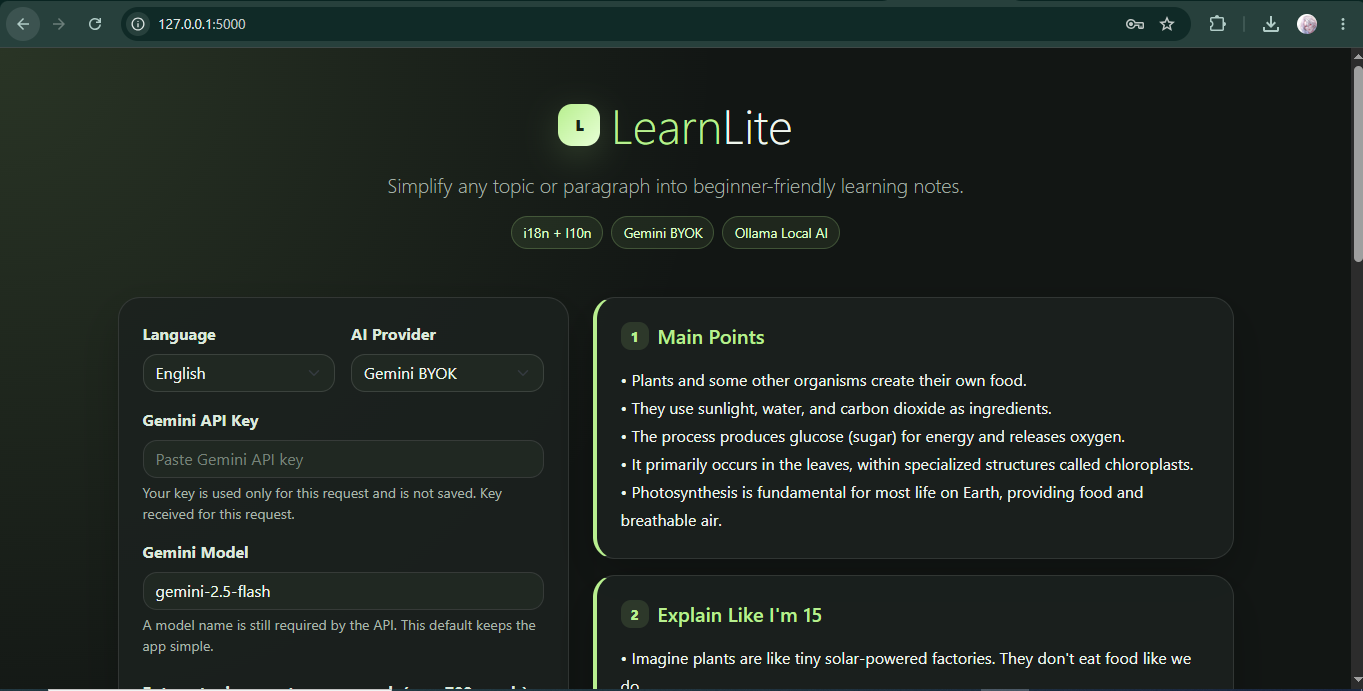
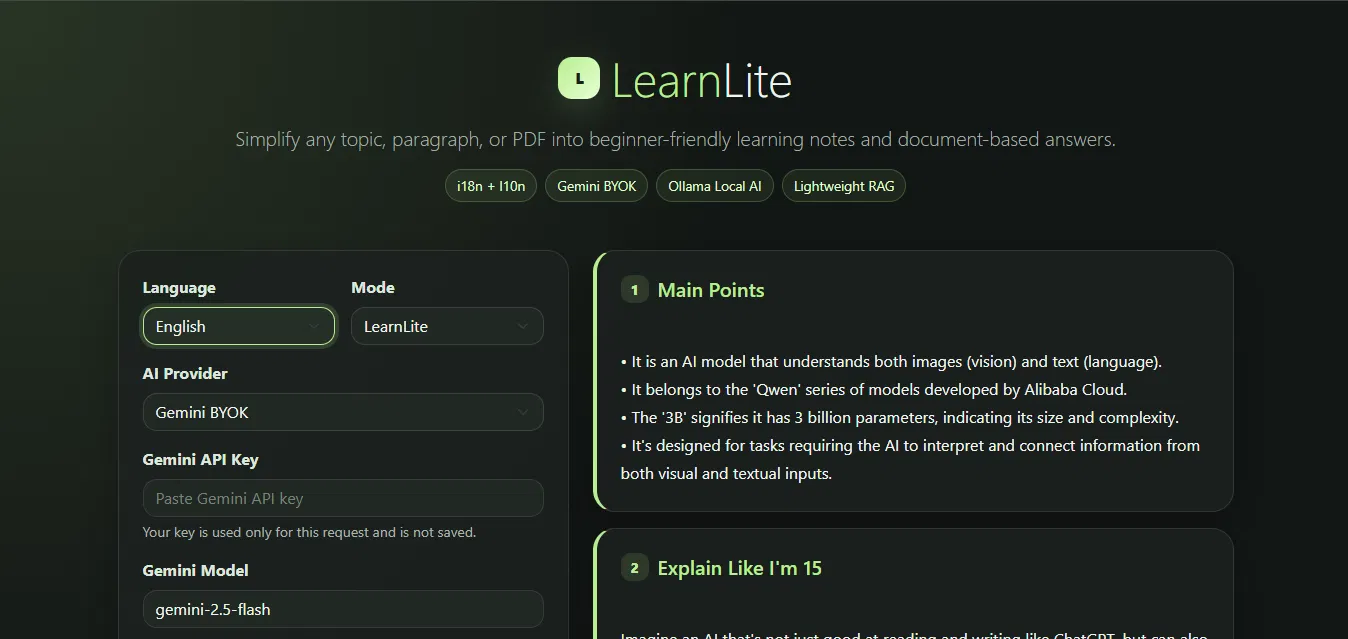
Update : Added the new features and related pics in the readme

Changed region(s): [[0.0, 0.0, 1.0, 1.0], [0.4362, 0.3865, 0.9036, 0.8028], [0.4674, 0.8028, 0.8724, 0.8326]]

diff --git a/README.md b/README.md
@@ -1,30 +1,66 @@
 # LearnLite
 
 <p align="center">
-  <img src="assets/gp1.PNG" alt="LearnLite Screenshot" width="900">
-  <img src="assets/LearnLite_Main_Points.png" alt="LearnLite Main Points" width="900">
-</p><p align="center">
-  <b>AI-Powered Learning Assistant</b><br>
-  Transform complex topics and paragraphs into beginner-friendly learning notes.
-</p><p align="center">
-  <a href="https://learn-lite-plum.vercel.app">Live Demo</a>
-</p>---
+  <img src="assets/LearnLite_Main_Points.png" alt="LearnLite Banner" width="900">
+</p>
 
-Overview
+<p align="center">
+  <b>AI-Powered Multilingual Learning Assistant</b><br>
+  Simplify any topic, paragraph, or PDF into beginner-friendly learning notes and document-based answers.
+</p>
 
-LearnLite is an AI-powered educational assistant designed to simplify learning.
-
-Users can enter a topic or paste a paragraph, and LearnLite generates structured learning notes that make complex concepts easier to understand.
-
-The application supports multiple Indian languages, cloud-based AI through Gemini BYOK (Bring Your Own Key), and local AI inference using Ollama.
+<p align="center">
+  <a href="https://learn-lite-plum.vercel.app">🌐 Live Demo</a>
+</p>
 
 ---
 
-Features
+## Screenshots
 
-Learning Assistance
+### LearnLite Mode — English
 
-LearnLite automatically generates:
+<p align="center">
+  <img src="assets/gp1.PNG" alt="LearnLite Mode in English" width="900">
+</p>
+
+### LearnLite Mode — Telugu (l10n)
+
+<p align="center">
+  <img src="assets/gp4.png" alt="LearnLite Mode in Telugu" width="900">
+</p>
+
+### LearnLite-RAG Mode — Hindi (PDF Q&A)
+
+<p align="center">
+  <img src="assets/gp2.png" alt="LearnLite RAG Mode in Hindi" width="900">
+</p>
+
+### LearnLite-RAG Mode — English (PDF Q&A)
+
+<p align="center">
+  <img src="assets/gp3.png" alt="LearnLite RAG Mode in English" width="900">
+</p>
+
+---
+
+## Overview
+
+LearnLite is an AI-powered educational assistant designed to make learning accessible.
+
+It has two modes:
+
+- **LearnLite** — Enter any topic or paragraph and receive structured learning notes instantly.
+- **LearnLite-RAG** — Upload a PDF and ask questions answered directly from the document content.
+
+The application supports multiple Indian languages, cloud-based AI through Gemini BYOK (Bring Your Own Key), and fully local AI inference using Ollama — no data leaves your machine.
+
+---
+
+## Features
+
+### LearnLite Mode
+
+Generates structured notes from any topic or paragraph:
 
 - Main Points
 - Explain Like I'm 15
@@ -33,129 +69,167 @@ LearnLite automatically generates:
 - What To Learn Next
 - Google Search Suggestions
 
-Multilingual Support
+### LearnLite-RAG Mode
 
-- English
-- Hindi
-- Telugu
+Upload a PDF and ask questions. Returns:
 
-Built using internationalization (i18n) and localization (l10n) principles.
+- Answer Summary
+- Definitions & Concepts
+- Relevant PDF Sections
+- Further Learning
+- Search Suggestions
+- Source Evidence from the document
 
-AI Providers
+### Multilingual Support (i18n + l10n)
 
-Gemini BYOK
+| Language | Script |
+|----------|--------|
+| English  | Latin  |
+| Hindi    | Devanagari |
+| Telugu   | Telugu |
 
-Users can provide their own Gemini API key and generate responses using Google's Gemini models.
+The entire UI and AI responses are localized — labels, placeholders, and generated content all adapt to the selected language.
 
-Ollama Local AI
+### AI Providers
 
-Supports privacy-friendly local inference through Ollama using locally installed models.
+**Gemini BYOK** — Bring your own Google Gemini API key. Keys are used only for the current request and are never stored.
 
----
-
-Tech Stack
-
-Backend
-
-- Flask
-- Python
-
-Frontend
-
-- HTML5
-- CSS3
-- Bootstrap 5
-
-AI
-
-- Google Gemini API
-- Ollama
-
-Deployment
-
-- Vercel
+**Ollama Local AI** — Run inference entirely on your own machine using any locally installed Ollama model. Ideal for privacy-sensitive use cases.
 
 ---
 
-How It Works
+## Tech Stack
+
+| Layer      | Technology                  |
+|------------|-----------------------------|
+| Backend    | Python, Flask               |
+| Frontend   | HTML5, CSS3, Bootstrap 5    |
+| AI (Cloud) | Google Gemini API           |
+| AI (Local) | Ollama                      |
+| RAG        | PyMuPDF4LLM, keyword-scored section retrieval |
+| Deployment | Vercel                      |
+
+---
+
+## How It Works
+
+### LearnLite Mode
+
+1. Select a language.
+2. Choose an AI provider (Gemini or Ollama).
+3. Enter a topic or paragraph (max 700 words).
+4. Click **Explain**.
+5. Receive structured learning notes instantly.
+
+### LearnLite-RAG Mode
 
 1. Select a language.
 2. Choose an AI provider.
-3. Enter a topic or paragraph.
-4. Click Explain.
-5. Receive structured learning notes instantly.
+3. Switch mode to **LearnLite-RAG**.
+4. Upload a PDF (max 10 MB).
+5. Type a question about the document.
+6. Click **Ask Document**.
+7. Receive answers grounded in the document's content.
 
 ---
 
-Running Locally
+## Running Locally
 
-Clone Repository
+### Clone Repository
 
-git clone https://github.com/Via-01/LearnLite.git
-cd LearnLite
+```bash
+git clone https://code.swecha.org/vaishnavi_bhan_swecha/learnlite.git
+cd learnlite
+```
 
-Install Dependencies
+### Install Dependencies
 
+```bash
 pip install -r requirements.txt
+```
 
-Run Application
+### Configure Environment
 
+```bash
+cp .env.example .env
+# Add your GEMINI_API_KEY to .env (optional — can also be entered in the UI)
+```
+
+### Run Application
+
+```bash
 python app.py
+```
 
-Open:
-
-http://127.0.0.1:5000
-
----
-
-Ollama Setup (Optional)
-
-Install Ollama and pull a model:
-
-ollama pull llama3.2 
-(or llama3.2:1b)
-
-Start Ollama and select Ollama Local AI inside LearnLite.
+Open: [http://127.0.0.1:5000](http://127.0.0.1:5000)
 
 ---
 
-Live Deployment
+## Ollama Setup (Optional)
 
-https://learn-lite-plum.vercel.app
+Install [Ollama](https://ollama.com) and pull a model:
+
+```bash
+ollama pull llama3.2:1b
+```
+
+Start Ollama, then select **Ollama Local AI** inside LearnLite.
+
+> Ollama inference is only available when running LearnLite locally. The Vercel deployment uses Gemini BYOK only.
 
 ---
 
-Project Structure
+## Project Structure
 
-LearnLite/
+```
+learnlite/
 │
-├── app.py
-├── ai.py
-├── translations.py
+├── app.py              # Flask routes and request handling
+├── ai.py               # AI provider logic (Gemini + Ollama)
+├── rag.py              # RAG pipeline (context retrieval + prompt)
+├── pdf_utils.py        # PDF extraction and section scoring
+├── translations.py     # i18n/l10n strings
 ├── requirements.txt
+├── pyproject.toml
 │
 ├── assets/
-│ └── gp1.png
+│   ├── gp1.PNG
+│   ├── gp2.png
+│   ├── gp3.png
+│   ├── gp4.png
+│   └── LearnLite_Main_Points.png
 │
 ├── templates/
-│ └── index.html
+│   └── index.html
 │
-└── README.md
+├── specs/
+│   └── multilingual-learning-assistant/
+│       └── spec.md
+│
+└── .specify/
+    ├── memory/constitution.md
+    └── templates/
+```
 
 ---
 
-Author
+## Live Deployment
 
-Vaishnavi Bhan
+[https://learn-lite-plum.vercel.app](https://learn-lite-plum.vercel.app)
 
-Swecha Profile:
-https://code.swecha.org/vaishnavi_bhan_swecha
-
-GitHub:
-https://github.com/Via-01
+> The live deployment supports Gemini BYOK only. Ollama Local AI requires a local setup.
 
 ---
 
-License
+## Author
 
-This project was developed as part of a hackathon submission for educational purposes.
+**Vaishnavi Bhan**
+
+- Swecha: [code.swecha.org/vaishnavi_bhan_swecha](https://code.swecha.org/vaishnavi_bhan_swecha)
+- GitHub: [github.com/Via-01](https://github.com/Via-01)
+
+---
+
+## License
+
+GNU Affero General Public License v3.0 — see [LICENSE](LICENSE) for details.